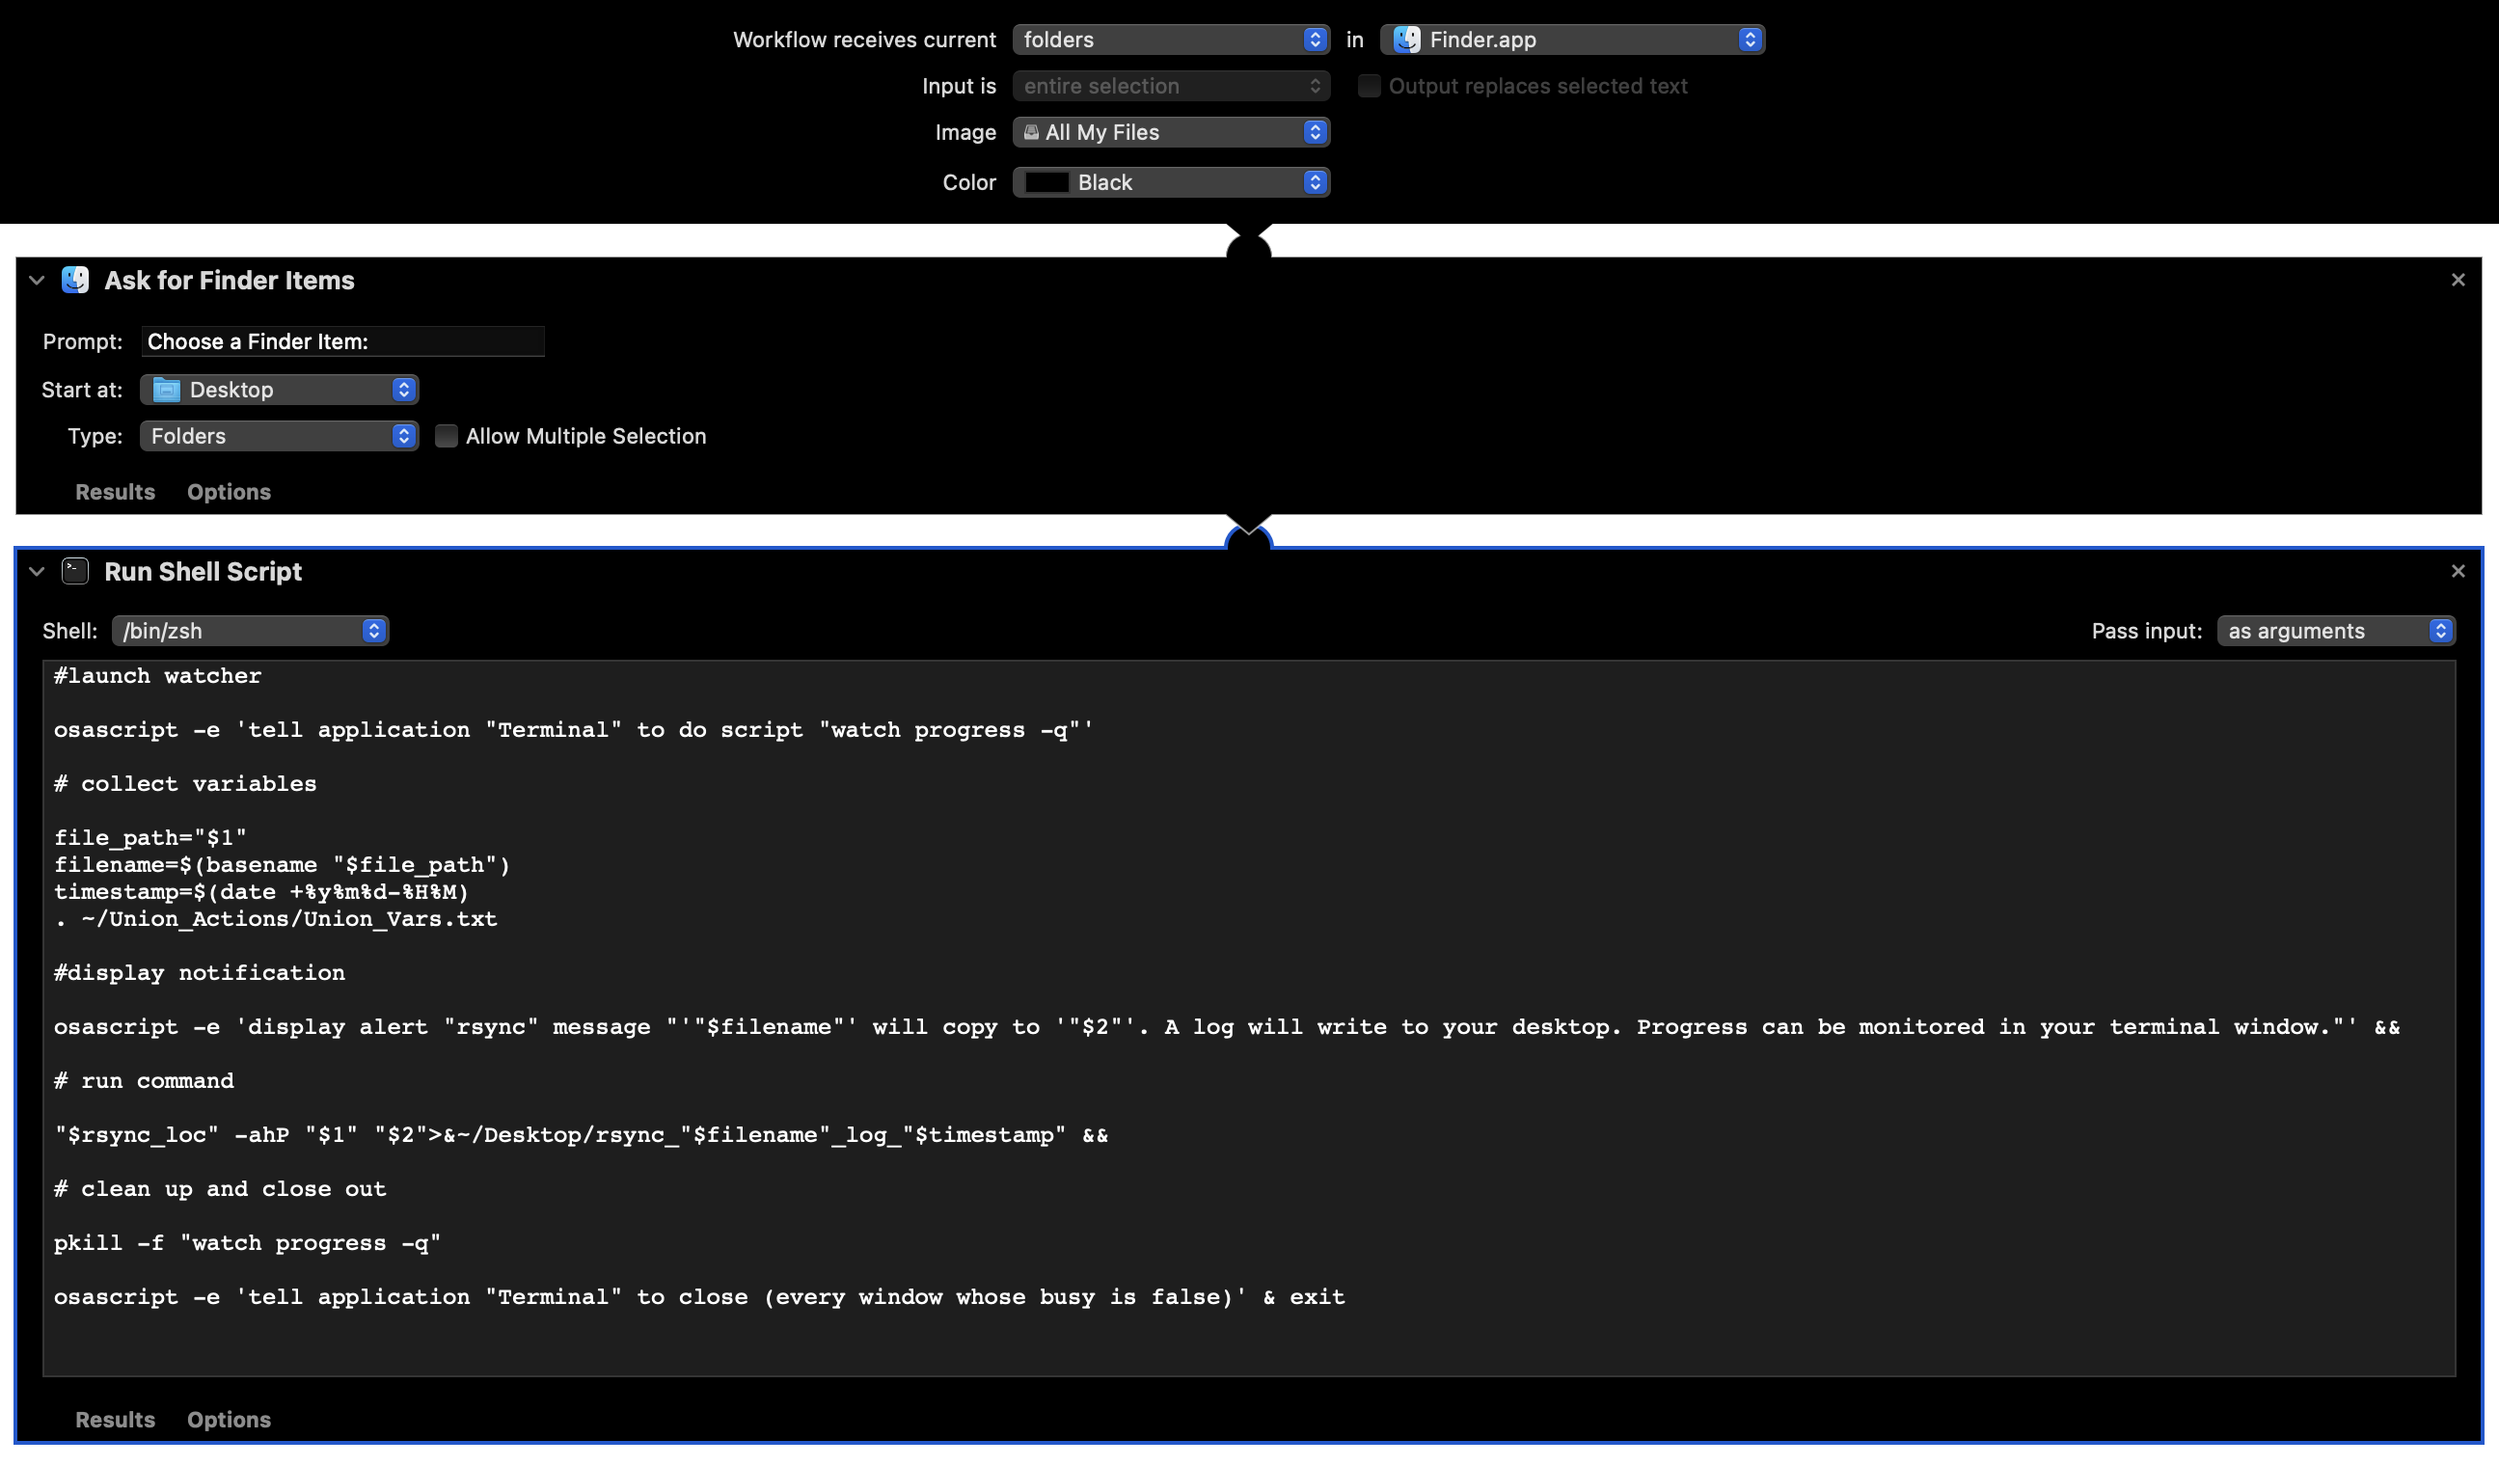
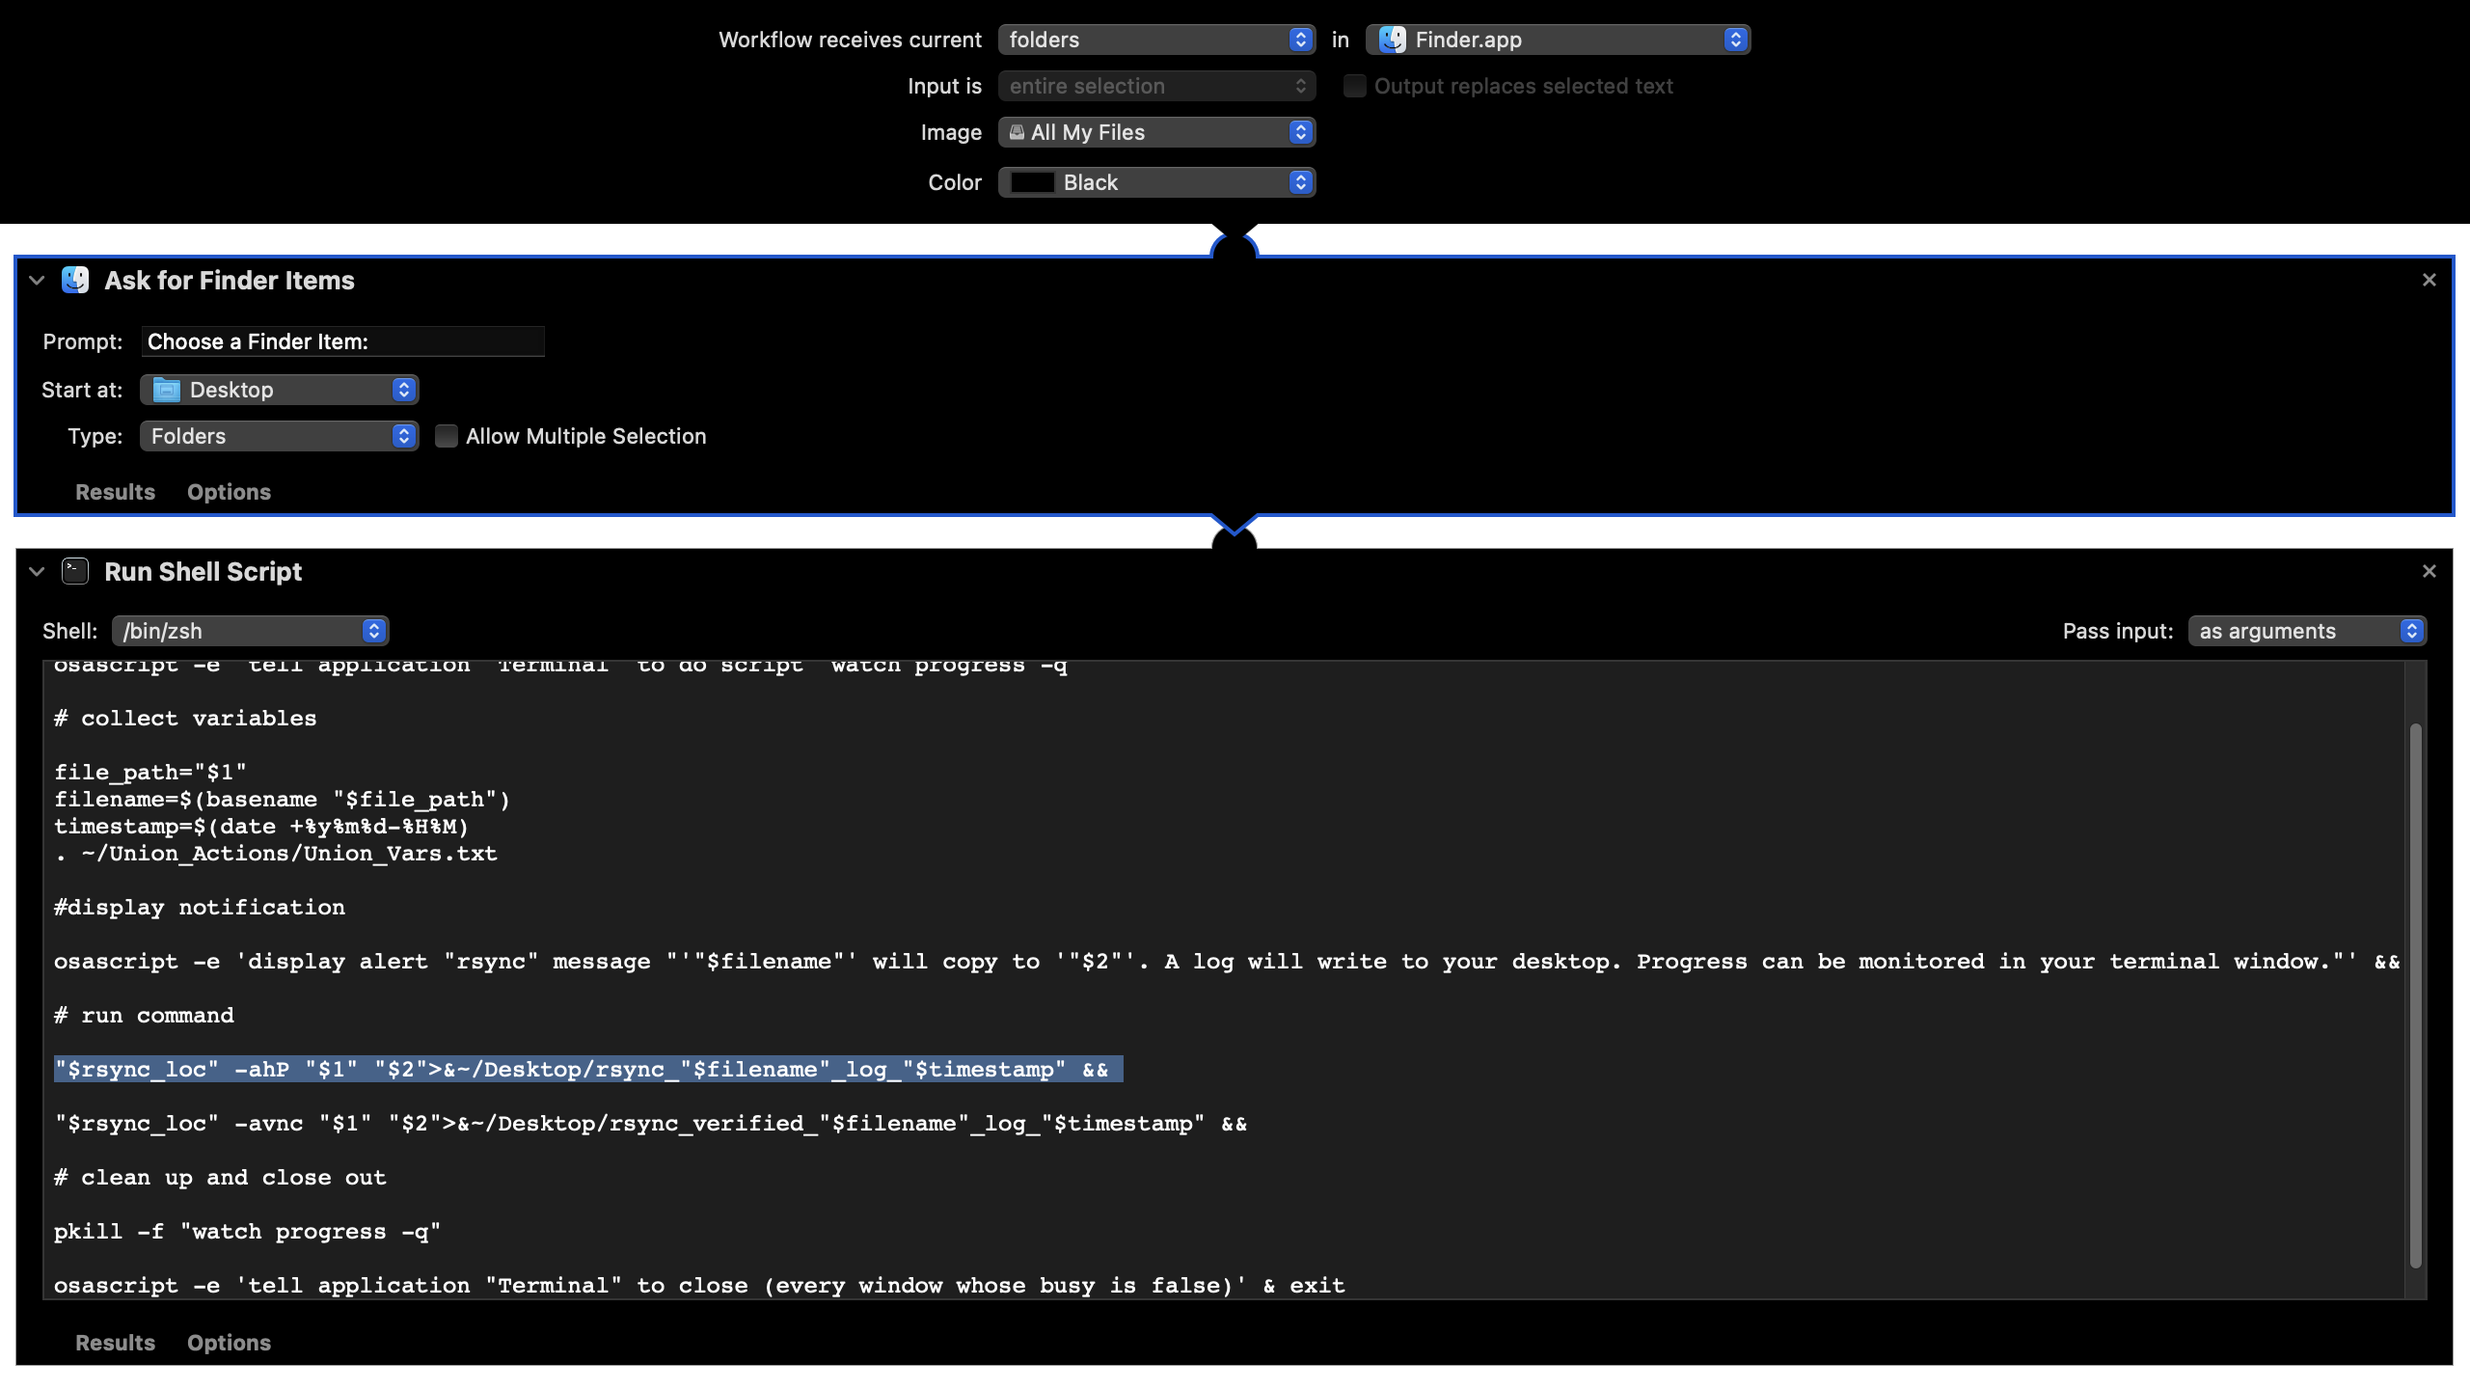
Added verify pass to rsync

Changed region(s): [[0.0, 0.0, 1.0, 1.0], [0.6872, 0.0, 0.7185, 0.0312]]

diff --git a/README.md b/README.md
@@ -33,6 +33,7 @@ Most of these Quick Actions use a command-line application to monitor progress. 
 ## Rsync
 * Rsync is a safe way to copy large amounts of data. This Quick Action automates the process and lets you track large data copies. 
 * Usage: right-click on a folder and apply. It will ask you to select a destination. While copying, the action will write a timestamped log to your Desktop. 
+* It will run a verification pass after copying the files over and print a second log to you desktop. If no files are listed in the second *"verified"* log, the file copy was 100% successful.
 
 # Installation
 
